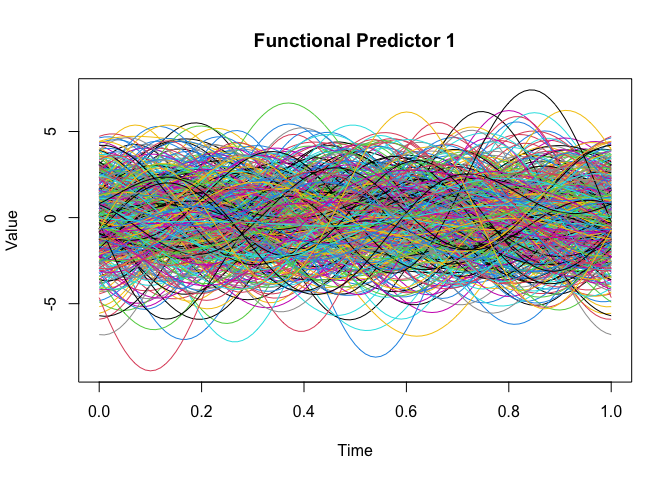
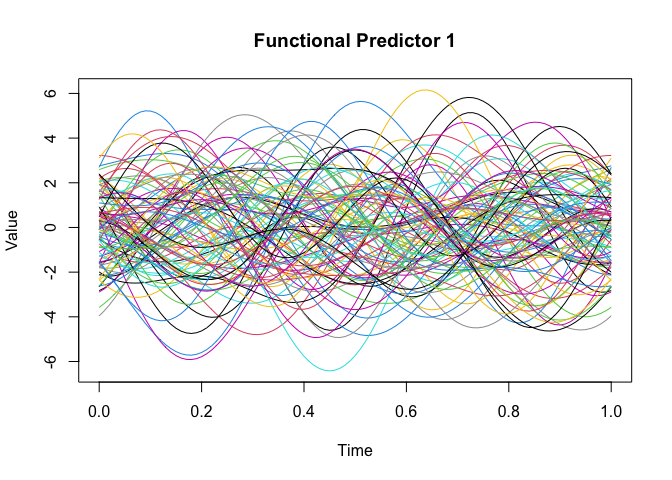
change sample size, eta, and add a two-dimensional example

diff --git a/README.md b/README.md
@@ -84,8 +84,8 @@ smooth the functional predictors.
 library(fquantdr)
 
 # define the parameters
-set.seed(12345)
-n <- 500
+set.seed(1234)
+n <- 100
 p <- 5
 nt <- 101
 time <- seq(0, 1, length = nt)
@@ -106,7 +106,9 @@ $\{\beta_1\}$.
 
 ``` r
 # Generate the functional predictors
-eta <- matrix(rnorm(n * p * nbasis), nrow = n, ncol = p * nbasis)
+library(mvtnorm)
+#eta <- matrix(rnorm(n * p * nbasis), nrow = n, ncol = p * nbasis)
+eta <- rmvnorm(n, mean = rep(0, p * nbasis))
 data.output <- fundata(n, p, nbasis, time, eta)
 xc <- data.output$xc
 
@@ -180,7 +182,7 @@ since we have a one-dimensional sufficient predictor, a number closer to
 true.pred <- mfpca.scores[, 1]
 est.pred <- result$betax
 mcorr(true.pred, est.pred)
-#> [1] 0.7355172
+#> [1] 0.9478022
 ```
 
 Another example where the $\tau$-th functional central quantile subspace
@@ -189,13 +191,13 @@ $Y = \arctan(\pi \langle \beta_1, X \rangle) + 0.5 \sin(\pi \langle \beta_2, X \
 Then,
 
 ``` r
-y <- atan(pi * mfpca.scores[, 1]) + 0.5 * sin(pi * mfpca.scores[, 2] / 6) + 0.1 * error
+y <- mfpca.scores[, 1]^3 + exp(mfpca.scores[, 2]) + error
 result2 <- fcqs(xc, y, time, nbasis, tau, d_tau = 2)
 
 true.pred2 <- mfpca.scores[, 1:2]
 est.pred2 <- result2$betax
 mcorr(true.pred2, est.pred2)
-#> [1] 0.7327519
+#> [1] 1.663245
 ```
 
 ## Applications
